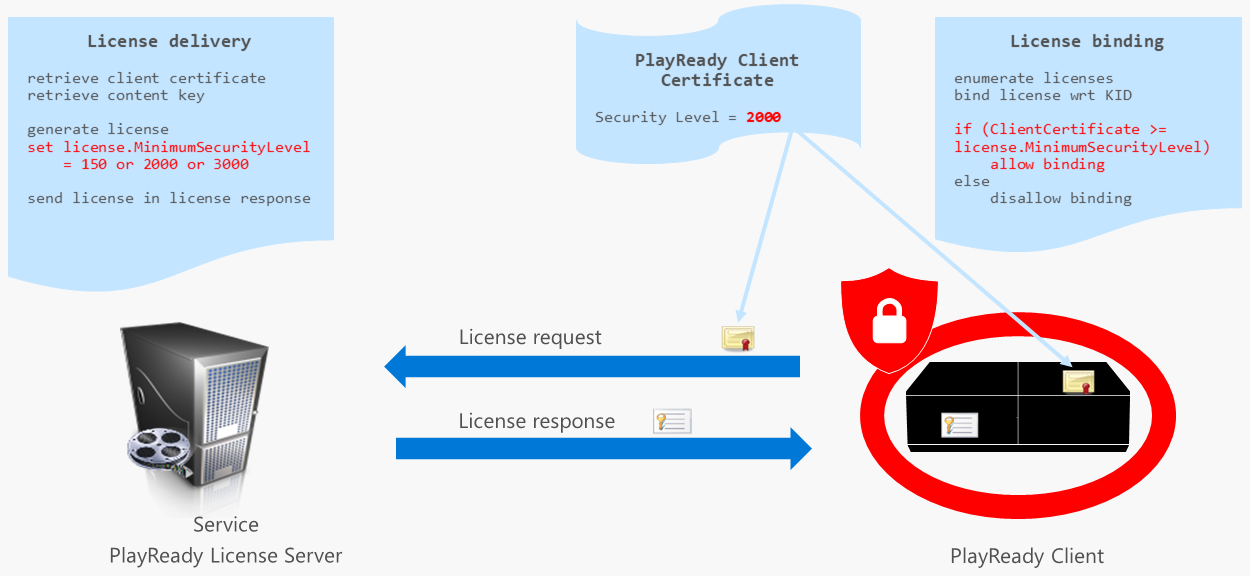
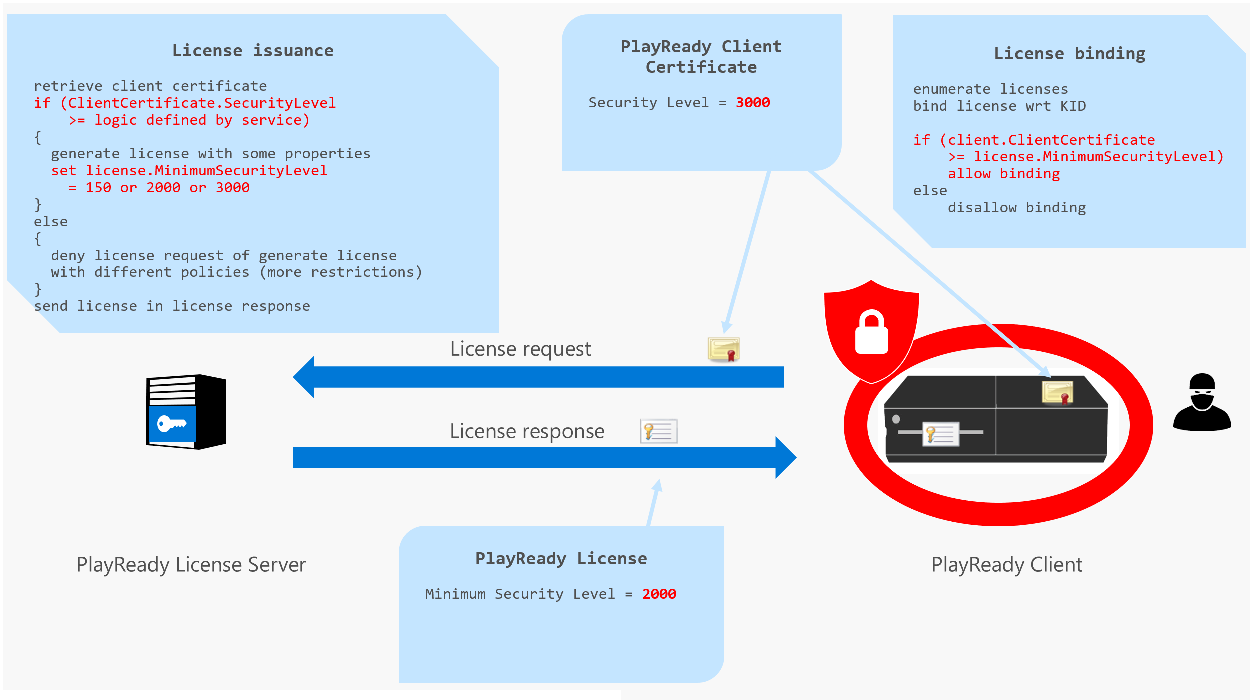
add a page about Security Level + one typo

diff --git a/Docs/Overview/securitylevel.md b/Docs/Overview/securitylevel.md
@@ -12,9 +12,25 @@ ms.prod: playready
 ms.technology: drm
 ---
 
-
 # Security Level
-   
-  
+## Client Security Level
+The PlayReady Client Security Level is a property of the client (device or application) that defines how robust the client is against unauthorized use. The highest the Security Level is, the better the client is robust or hardened.
+PlayReady currently defines 3 levels:
+|Security Level|Purpose|Client Implementation|Version|
+| --- | --- | --- | --- |
+|SL150|For clients under development or under test. <p/>Not suitable for commercial content in a commercial scenario.|Any implementation is acceptable. Assets, Client Secrets or Content Secrets are not protected at all against unauthorized use.|Any|
+|SL2000|For devices and applications with the standard security consuming commercial content.|For devices and applications.<p/>Assets, Client Secrets or Content Secrets are protected through software or hardware means.|Any|
+|SL3000|For devices with the highest security consuming the highest quality of commercial content.|For devices only.<p/>Assets, Client Secrets and Content Secrets are protected through hardware means, using a Trusted Execution Environment (TEE) of the processor. Conformant to a superset of Compliance and Robustness requirements.|PlayReady 3.0 or higher|
 
+Illustration of a SL2000 device or application. The Final Product is hardened and verified against unauthorized use.
+![Illustration of a SL2000 device. The Final Product is hardened against unauthorized use](../images/security_level_2000.png)
 
+Illustration of a SL3000 device. The Intermediate Product is hardened and verified using a TEE and the Final Product is hardened and verified against unauthorized use.
+![Illustration of a SL3000 device.The Intermediate Product is hardened and verified using a TEE and the Final Product is hardened and verified against unauthorized use](../images/security_level_3000.png)
+## Using the Security Level
+The Security Level is a property of the client defined during the development cycle. It has implications on the means that are implemented to assure the security of the Content Secrets and Client Secrets against attacks, and on the development and certification plans that the client developer make.
+License Servers can adjust the licenses, or license properties, delivered to clients based on their Security Level, by two methods.
+1) The Security Level is a property of the Client Certificate embedded in the client at manufacturing time. When a client acquires a license from a license server, it provides in the license request a copy of its client certificate. The license server receives this request and can check for the security level of the client, before it delivers licenses to them. It can include logic to deliver different licenses for different clients. For example, a SL3000 client will have access to a higher resolution than the SL2000 client, and receive different licenses than than the other client. Or, it will have access to a different catalog, including theatrical releases.
+2) In addition, every license delivered includes a property called MinimumSecurityLevel, which is set to 150, 2000 or 3000 by the license server. A License server delivering a license to a client sets this value in the license. Clients binding a license verify if their own Client Security Level is equal or greater than the MinimumSecurityLevel value of the license. If it isn't, they refuse to bind, and play.
+
+![Illustration of a SL2000 device. The Final Product is hardened against unauthorized use](../images/security_level.png)

diff --git a/Docs/Overview/encryption.md b/Docs/Overview/encryption.md
@@ -17,7 +17,7 @@ ms.technology: drm
 
 PlayReady helps secure encrypted content by distributing and controlling the use of content encryption keys over networks and in clients. With this technology, content owners and services distributing high-valued content can monetize their content with full control over their business model.
 
-Several different types of encryption are used to protect content. Microsoft PlayReady systems use the symmetric key algorithm, Advanced Encryption Standard (AES). Starting with version 4.0, PlayReady systems support AES 128 keys in both CBC (Cipher Block Chaining) mode and CTR (Counter Mode), as defined in the ISO standard ISO/IEC 23001-7. The encryption mechanisms used to protect content are encapsulated in a container, so that files can be efficiently browsed and decrypted on a variety of platforms. 
+Several different types of encryption are used to protect content. Microsoft PlayReady systems use the symmetric key algorithm, Advanced Encryption Standard (AES). Starting with version 4.0, PlayReady systems support AES 128 keys in both CBC (Cipher Block Chaining) and CTR (Counter Mode) modes, as defined in the ISO standard ISO/IEC 23001-7. The encryption mechanisms used to protect content are encapsulated in a container, so that files can be efficiently browsed and decrypted on a variety of platforms. 
   
 ## In this section
 
